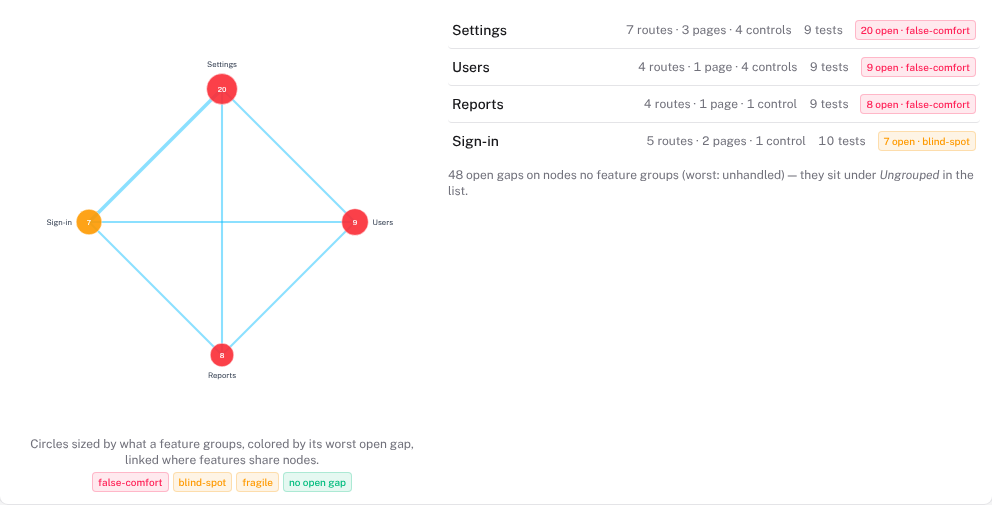
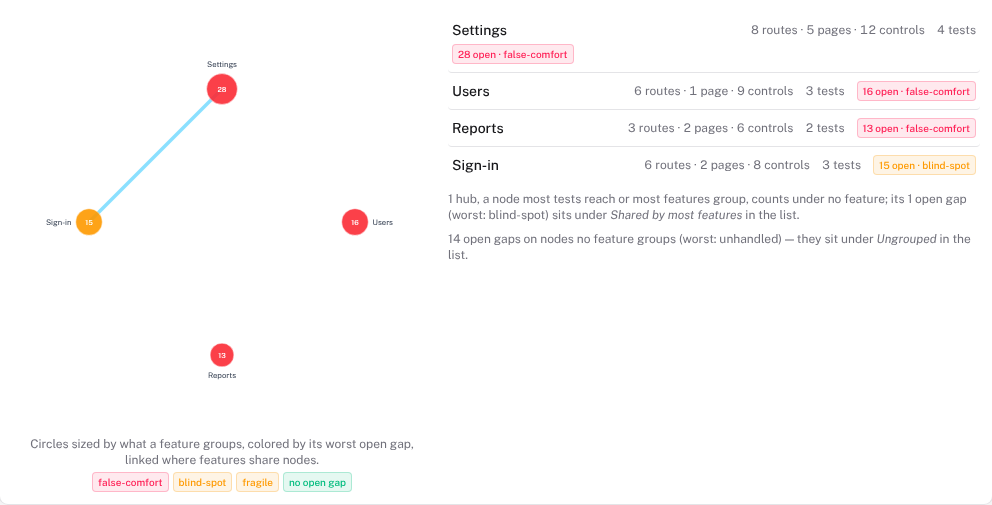
docs(docs): describe how features group and what a hub is
The gap detectors reference says what a feature groups beyond its tests'
reach and how hubs count, the Test Map page points to it, and the
feature map, tab and graph screenshots show the demo's grouping. The tab
figure keeps the feature's top five gaps.

Claude-Session: https://claude.ai/code/session_01VRZz879zihheCMp5M7Kv9i

diff --git a/apps/docs/features/scenario-gaps.md b/apps/docs/features/scenario-gaps.md
@@ -57,12 +57,14 @@ factors and its evidence lines.
 
 The tab opens on the **feature map**: one circle per feature (from the
 [`piwi:feature` tag](/reference/test-metadata)), sized by the routes, pages and controls it groups, colored by its
-worst open gap, and linked to the features it shares nodes with. The ranked list beside it carries every feature,
-however many.
+worst open gap, and linked to the features it shares nodes with. A feature also groups what its tests miss nearby,
+such as the controls on its pages, and a **hub** most tests reach links no features
+([how features group](/reference/gap-detectors#features)). The ranked list beside it carries every feature, however
+many.
 
 <figure>
   <img src="/screenshots/scenario-gaps-feature-map.png" alt="Feature map: four feature circles colored by worst gap, beside their counts">
-  <figcaption>Four features of an admin console, linked through the routes they share.</figcaption>
+  <figcaption>Four features of an admin console, each with what it groups, its tests and its worst gap.</figcaption>
 </figure>
 
 A feature, or a gap's node, opens in the **feature graph**: the node in the middle, what leads into it on the left,
@@ -82,7 +84,7 @@ Every gap takes the same four verbs as an inbox item:
 
 <figure>
   <img src="/screenshots/scenario-gaps-tab.png" alt="Five ranked gaps of the Users feature with evidence and triage verbs">
-  <figcaption>Gaps of one feature, ranked, each with its evidence and the inbox verbs.</figcaption>
+  <figcaption>The top gaps of one feature, ranked, each with its evidence and the inbox verbs.</figcaption>
 </figure>
 
 - **Accept** copies a draft test skeleton to your clipboard: a title from the gap, the `piwi:` annotations of the

diff --git a/apps/docs/reference/gap-detectors.md b/apps/docs/reference/gap-detectors.md
@@ -67,6 +67,19 @@ file's history, so it stays at 0.1 there. The other detectors
 rank by priority and confidence. A finding ranks by its severity (1 for unhandled, 0.5 for degraded) times the
 route's reach.
 
+## Features
+
+A feature groups the routes, pages and controls the tests tagged with it reach. Each recompute also gives it what no
+feature reaches, with a confidence below one: the controls on its pages (0.8), the pages they link to under the same
+first path segment (0.6) and those pages' controls (0.5), and the declared routes sharing the first two path segments
+of a route it reaches (0.6). A gap on such a node sits under the feature, so the map shows what a feature misses, not
+only what its tests touch. A dependency and a page under another path stay ungrouped.
+
+With three features or more, a node more than half the tests reach, or more than half the features group, is a
+**hub**, such as the session route every test calls. The feature graph still draws it, but it adds no member, test,
+gap or link to a feature; its gaps sit under *Shared by most features*. The groups are rebuilt on every recompute, so
+a feature that loses its tag leaves the map.
+
 ## What the graph includes
 
 The graph stays proportional to the application's surface, not its data volume:
